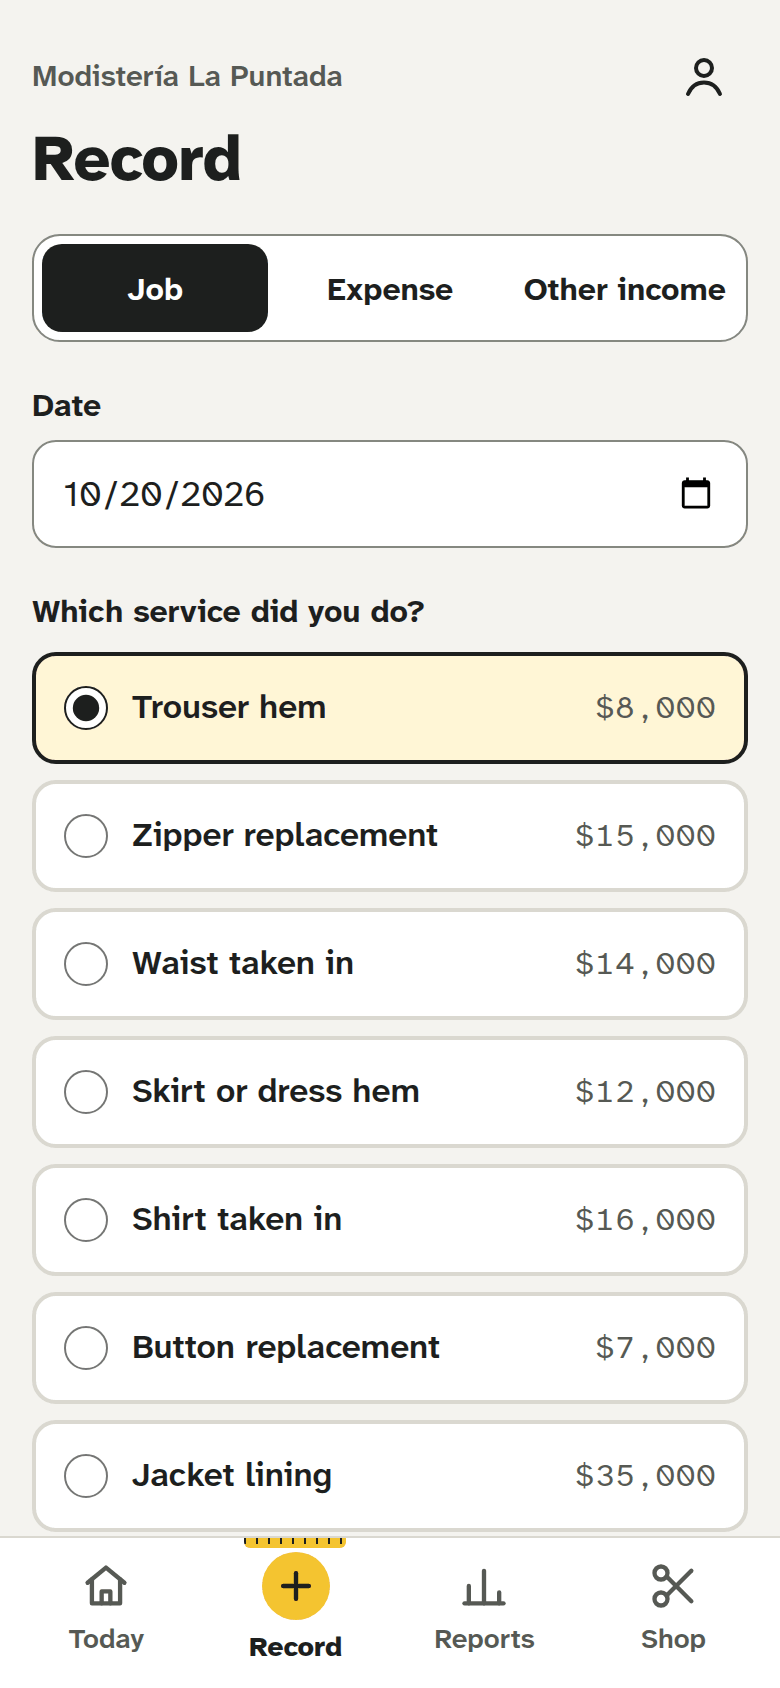
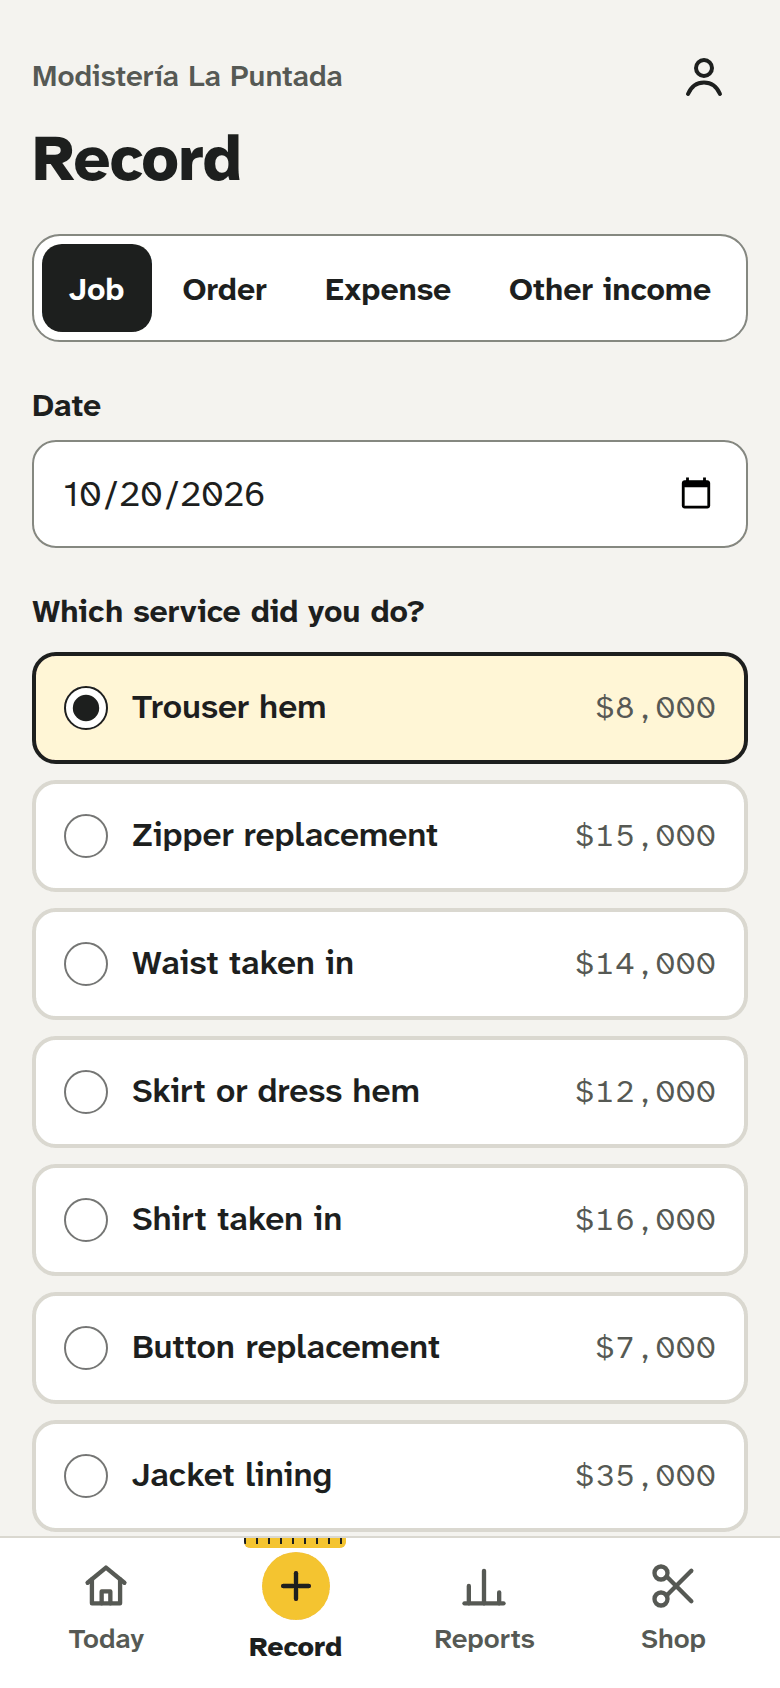
Explain orders in the README, and shoot Record and Reports again with them

Changed region(s): [[0.0923, 0.1232, 0.3692, 0.2156], [0.6462, 0.154, 0.9231, 0.1848], [0.4308, 0.154, 0.5846, 0.1848]]

diff --git a/README.md b/README.md
@@ -1,11 +1,11 @@
 # Tailor Shop Ledger
 
-A Ruby on Rails app that shows small tailoring and alteration shops whether their work pays. A shop records the services it offers, with their price and material cost; the jobs it charges for; its fixed costs, occasional expenses and other income. The app turns that into a goal for the day and results by day, week, month, semester and year.
+A Ruby on Rails app that shows small tailoring and alteration shops whether their work pays. A shop records the services it offers, with their price and material cost; the jobs it charges for, and the orders customers pay for in parts; its fixed costs, occasional expenses and other income. The app turns that into a goal for the day and results by day, week, month, semester and year.
 
 <p align="center">
   <img src="docs/screenshots/today.png" width="24%" alt="Today: the day's goal on a strip of tape measure, $32,400 made of the $44,074 the fixed costs need today, and what's left to go">
-  <img src="docs/screenshots/record.png" width="24%" alt="Record: a job's date and its service, picked from the shop's list with its price">
-  <img src="docs/screenshots/reports.png" width="24%" alt="Reports: October so far, a profit of $334,241, and how it's calculated line by line">
+  <img src="docs/screenshots/record.png" width="24%" alt="Record: a job, an order, an expense or other income; here a job's date and its service, picked from the shop's list with its price">
+  <img src="docs/screenshots/reports.png" width="24%" alt="Reports: October so far, a profit of $472,741, and how it's calculated line by line">
   <img src="docs/screenshots/shop.png" width="24%" alt="Shop: each service with its price, its materials and what it leaves">
 </p>
 
@@ -25,7 +25,11 @@ The rules are the product. Three of them keep a shop from fooling itself:
 - **Fixed costs are spread over the days the shop works.** Rent, electricity or a phone plan are monthly amounts, and each work day carries the month's total divided by its work days: that share is the day's goal on Today. Charging the rent on the day it's paid would show that day as a loss and every other one with an inflated profit.
 - **The home's accounts stay out.** When the shop is in the home, only the shop's share of the home's bills goes into fixed costs, and money that isn't the shop's, like the rent of a room, isn't other income. The help texts explain it with an example.
 
-A period's result is what its jobs charged, less their materials, plus other income, less other expenses and the fixed costs of its work days: a profit from 0 up, a loss below. Changing a service's price never changes the jobs already recorded, and a new amount for a fixed cost applies from a month on, never to the months before it. The full rules are in [docs/plan.md](docs/plan.md).
+A period's result is what its jobs charged, less their materials, plus other income, less other expenses and the fixed costs of its work days: a profit from 0 up, a loss below.
+
+Work a customer pays for later goes in an order: usually a deposit when they leave it, which covers its materials, and the rest when it's done. Each payment counts the day it comes in, and the order's materials and jobs the day it was left, so a day's figures follow the money that actually came in. Today also lists what customers still owe. An order that's cancelled is deleted, since the deposit goes back.
+
+Changing a service's price never changes the jobs already recorded, and a new amount for a fixed cost applies from a month on, never to the months before it. The full rules are in [docs/plan.md](docs/plan.md).
 
 ## Stack
 

diff --git a/docs/plan.md b/docs/plan.md
@@ -309,7 +309,7 @@ The first shop takes deposits and is paid the rest later, sometimes in parts (ga
 - [x] Registrar's "Pedido"; on Hoy, "Te deben" and the day's payments; and the payments in a day's report.
 - [x] Keep the customer's name out of the logs.
 - [x] Demo seeds: La Puntada gets orders paid in two parts, one with a payment in between, one across two months, and some pending, one of them finished and never picked up.
-- [ ] README: the rules for orders, and the Today screenshot again.
+- [x] README: the rules for orders, and the screenshots that orders change: Record, with its new switch, and Reports' figures. Today's stays as it was, since "Te deben" falls below the first screen.
 - [ ] Tag `v0.1.0` (moved from M8, since v0.1 now includes orders).
 
 Done when model specs cover a payment over the order's total, a payment before its order's day and an order's day moving its jobs; query specs cover a deposit and the rest in different months, a pending order and one without jobs; request specs cover isolation; a system spec takes an order with two jobs and a deposit, then its last payment, checking Today after each; and the owner approves the new pages in screenshots at phone and desktop width.
